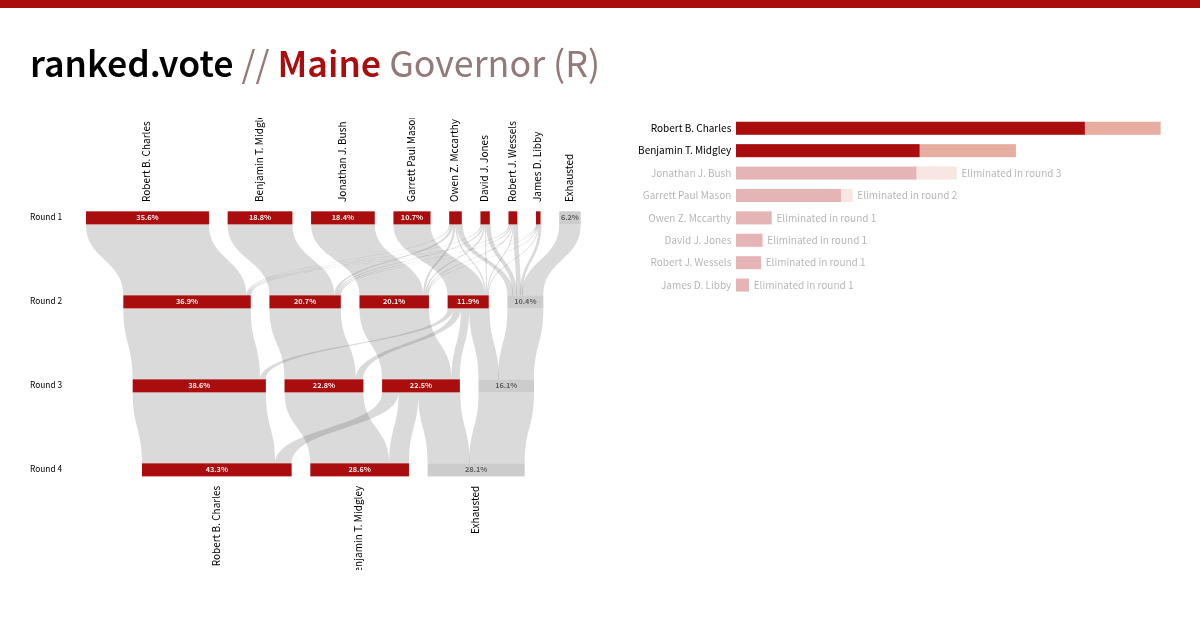
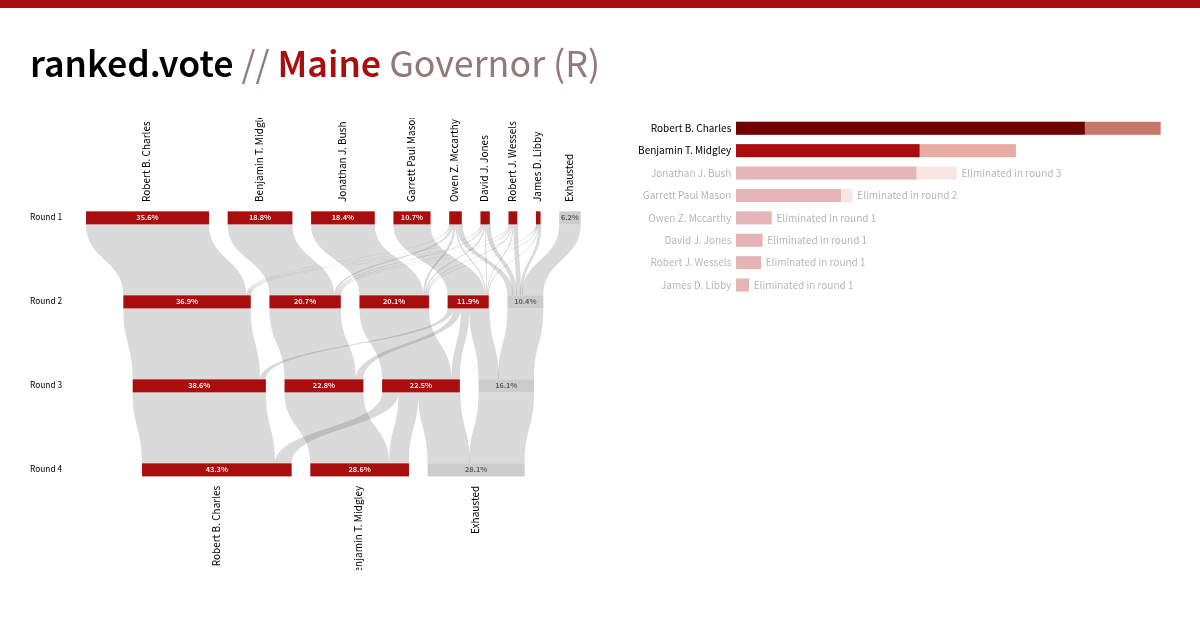
Highlight the RCV winner in vote counts

Changed region(s): [[0.6167, 0.181, 0.9867, 0.2413]]

diff --git a/src/components/report_components/VoteCounts.svelte b/src/components/report_components/VoteCounts.svelte
@@ -9,6 +9,7 @@
   import tooltip from "../../tooltip";
 
   export let candidateVotes: ICandidateVotes[];
+  export let winner: CandidateId | undefined = undefined;
 
   const { getCandidate } = getContext("candidates") as CandidateContext;
 
@@ -41,6 +42,14 @@
     fill: #e7ada0;
   }
 
+  .winner .firstRound {
+    fill: #700000;
+  }
+
+  .winner .transfer {
+    fill: #c8786b;
+  }
+
   .eliminated {
     opacity: 30%;
   }
@@ -57,7 +66,8 @@
   <g transform={`translate(${labelSpace} 0)`}>
     {#each sortedCandidateVotes as votes, i}
       <g
-        class={votes.roundEliminated === null ? '' : 'eliminated'}
+        class:winner={votes.candidate === winner}
+        class:eliminated={votes.roundEliminated != null}
         transform={`translate(0 ${outerHeight * (i + 0.5)})`}>
         <text font-size="12" text-anchor="end" dominant-baseline="middle">
           {getCandidate(votes.candidate).name}
@@ -79,7 +89,7 @@
             received <strong>${votes.transferVotes.toLocaleString()}</strong> transfer votes.`}
             />
         </g>
-        {#if votes.roundEliminated !== null}
+        {#if votes.roundEliminated != null}
             <text
             font-size="12"
             dominant-baseline="middle"

diff --git a/src/routes/card/[...path]/+page.svelte b/src/routes/card/[...path]/+page.svelte
@@ -47,9 +47,8 @@
 
 		{#if report.totalVotes}
 			<div class="segment">
-				<VoteCounts candidateVotes={report.totalVotes} />
+				<VoteCounts candidateVotes={report.totalVotes} winner={report.winner} />
 			</div>
 		{/if}
 	</div>
 </div>
-

diff --git a/src/components/Report.svelte b/src/components/Report.svelte
@@ -178,7 +178,7 @@
     {/if}
   </div>
   <div class="rightCol">
-    <VoteCounts candidateVotes={report.totalVotes} />
+    <VoteCounts candidateVotes={report.totalVotes} winner={report.winner} />
   </div>
 </div>
 
